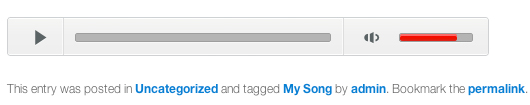
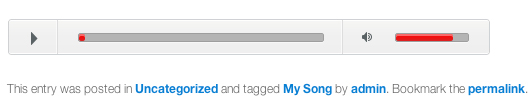
Update to 1.1
Removed Iconic font since it was GPL incompatible.

diff --git a/css/audio-to-player.css b/css/audio-to-player.css
@@ -109,30 +109,6 @@ a.jp-volume-max  {
     position:relative;
 }
 
-a.jp-play:before,  a.jp-pause:before,
-a.jp-mute:before, a.jp-unmute:before {
-    font-family:'IconicStroke';
-    font-size:1em;
-    color:#5b6365;
-    position:absolute;
-    text-indent:0;
-    left:0;
-    top:0.7em;
-    bottom:0;
-    right:0;
-    height:auto;
-    text-align:center;
-    text-shadow: 0 1px 0 rgba(255,255,255,0.7);
-}
-
-a.jp-mute:before, a.jp-unmute:before {
-    top:0.8em;
-}
-
-a.jp-play:hover:before,  a.jp-pause:hover:before,
-a.jp-mute:hover:before, a.jp-unmute:hover:before {
-    color:#888;
-}
 
 a.jp-play, a.jp-pause {
     border-right:1px solid #ddd;
@@ -148,24 +124,20 @@ a.jp-mute, a.jp-unmute {
     box-shadow:-1px 0 0 rgba(255,255,255,0.7);
 }
 
-a.jp-play:before {
-    content:'>';
+a.jp-play {
+    background:url(../img/play.png) no-repeat center center;
 }
 
-a.jp-pause:before {
-    content:':';
+a.jp-pause {
+    background:url(../img/pause.png) no-repeat center center;
 }
 
-a.jp-mute:before {
-    content:'+';
+a.jp-mute {
+    background:url(../img/on.png) no-repeat center center;
 }
 
-a.jp-unmute:before {
-    content:'-';
-}
-
-a.jp-play, a.jp-pause {
-	padding-left:1.9%;
+a.jp-unmute {
+    background:url(../img/off.png) no-repeat center center;
 }
 
 /* =Progress Bar
@@ -225,11 +197,11 @@ div.jp-volume-bar-value, div.jp-play-bar {
 
 div.jp-audio div.jp-type-single a.jp-mute,
 div.jp-audio div.jp-type-single a.jp-unmute {
-	margin-left: 71%;	
+	margin-left: 74%;	
 }
 
 .jp-volume-bar-container {
-    margin-left:1.5%;
+    margin-left:0.5%;
  	width:15%;
 	float:left; 
 	padding-top:0.9em; 

diff --git a/inc/audio-to-player-class.php b/inc/audio-to-player-class.php
@@ -30,7 +30,7 @@ if ( ! class_exists( 'MV_Audio_To_Player' ) )
         /** 
         * Init 
         * 
-        * Sets the necessary action and filter.
+        * Loads internationalization and sets the necessary action and filter.
         *
         * @return   void
         * @since    1.0
@@ -38,6 +38,9 @@ if ( ! class_exists( 'MV_Audio_To_Player' ) )
         
         function init() 
         {
+            
+			load_plugin_textdomain( 'mv-audio-to-player', false, plugin_dir_path( dirname( __FILE__ ) ) . '/lan' );
+            
             add_action( 'the_posts', array( &$this, 'have_audio' ), 1, 1 );
             add_filter( 'post_audio', array( &$this, 'gallery' ), 10, 2 );
         }
@@ -54,13 +57,12 @@ if ( ! class_exists( 'MV_Audio_To_Player' ) )
         function have_audio( $posts ) {
             if ( empty( $posts ) || $this->has_audio )
                 return $posts;
-    
+            
             foreach ( $posts as $post ) {
                 if ( preg_match('/\.(mp3|mp4|m4a)/i', $post->post_content) ) {
                     $this->has_audio = true;
                     break;
                 }
-                do_action( 'mv_audio_to_player_have_audio_check', $post );
             }
     
             if ( $this->has_audio == true )

diff --git a/audio-to-player.php b/audio-to-player.php
@@ -1,7 +1,7 @@
 <?php
 /*
 Plugin Name: Audio To Player
-Version: 1.0
+Version: 1.1
 Plugin URI: mattvarone.com
 Description: Converts MP3, MP4 and M4A links to a skineable HTML5 audio player with fallback support.
 Author: Matt Varone
@@ -37,7 +37,7 @@ Foundation, Inc., 59 Temple Place, Suite 330, Boston, MA  02111-1307  USA
 |--------------------------------------------------------------------------
 */
 
-define( 'MV_AUDIO_TO_PLAYER_VERSION', '1.0' );
+define( 'MV_AUDIO_TO_PLAYER_VERSION', '1.1' );
 
 /*
 |--------------------------------------------------------------------------
@@ -77,7 +77,7 @@ add_action( 'plugins_loaded', 'mv_audio_to_player_init' );
 if ( ! function_exists( 'mv_audio_to_player_activation' ) ) {	
 	function mv_audio_to_player_activation() {
 		// check compatibility
-		if ( version_compare( get_bloginfo( 'version' ), '3.3' ) >= 0 )
+		if ( version_compare( get_bloginfo( 'version' ), '3.0' ) >= 0 )
 		deactivate_plugins( basename( __FILE__ ) );
 	}	
 }
